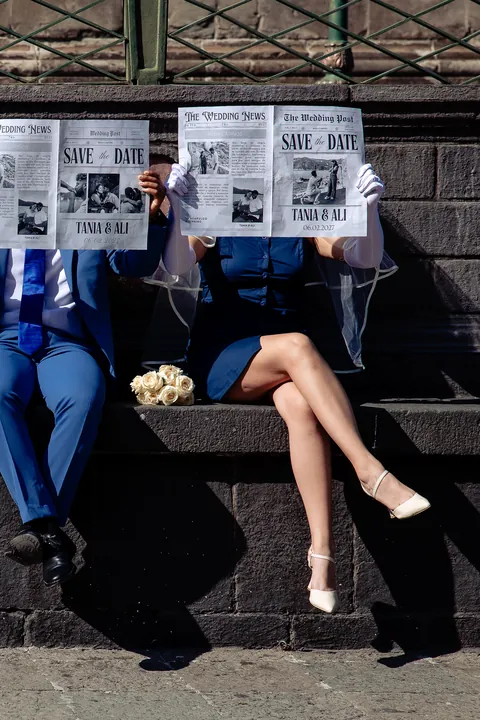
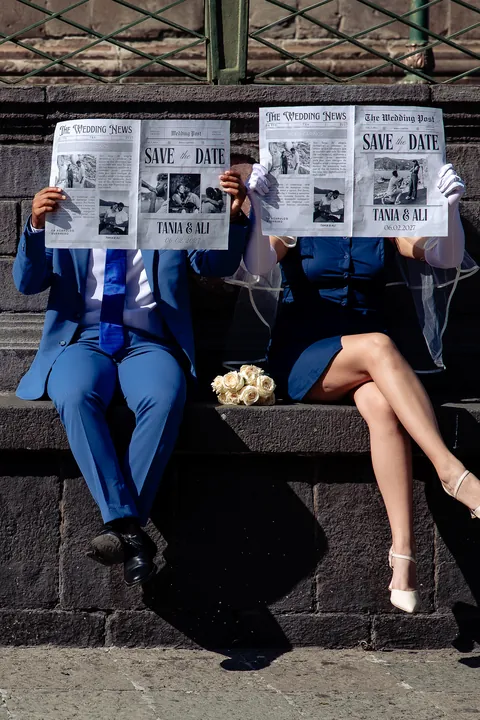
13 nov: fotos de periódicos centradas, franja aérea centrada en celular, link capilla por cid, & del pie y de la firma, días sin cero

diff --git a/index.html b/index.html
@@ -2319,6 +2319,16 @@ footer{padding-top:calc(var(--fade) + 10px)!important}
 }
 /* & del pie de página completo */
 .footer-names .amp{font-family:var(--display)!important;font-style:italic!important;padding:0 .12em}
+
+/* ============ 13 nov ============ */
+/* & del pie: mismo tono y tamaño que los nombres */
+.footer-names .amp{color:#F8F5EC!important;font-size:.6em!important;vertical-align:.12em;padding:0 .2em!important}
+/* & de la firma del verso completa */
+.verse-sig .amp{font-family:var(--display);font-style:italic;font-size:.72em;padding:0 .15em;vertical-align:.08em}
+/* contador: que quepa "Segundos" */
+@media (max-width:520px){.cd-lbl{font-size:10.5px!important;letter-spacing:.02em!important}}
+/* franja aérea en celular: pareja al centro */
+@media (max-width:700px){.photo-band .pb-img[style*="banda-1.webp"]{background-image:url(fotos/banda-1m.webp)!important;background-position:50% 50%!important}}
 </style>
 </head>
 <body>
@@ -2445,7 +2455,7 @@ footer{padding-top:calc(var(--fade) + 10px)!important}
         </svg>
         <span class="verse-quote">&ldquo;</span>
         <p class="verse-text">Después de un hermoso camino juntos, hemos decidido unir nuestras vidas ante Dios, frente al mar y rodeados de nuestros seres queridos.<br><br>Nos casamos, y queremos compartir este día tan especial con ustedes.</p>
-        <div class="verse-sig">Tania &amp; Ali</div>
+        <div class="verse-sig">Tania <span class="amp">&amp;</span> Ali</div>
         <figure class="dbl-exp"><img src="fotos/caminando.webp?v=2" alt="Tania y Ali caminando de la mano" decoding="async" loading="lazy"></figure>
       </div>
     </div>
@@ -2483,7 +2493,7 @@ footer{padding-top:calc(var(--fade) + 10px)!important}
       <h2>Contamos <em>los</em> días</h2>
       <div class="countdown-sub">hasta el gran momento</div>
       <div class="countdown-grid" id="cd">
-        <div class="cd-block"><div class="cd-num" id="cd-d">000</div><div class="cd-lbl">Días</div></div>
+        <div class="cd-block"><div class="cd-num" id="cd-d">00</div><div class="cd-lbl">Días</div></div>
         <div class="cd-block"><div class="cd-num" id="cd-h">00</div><div class="cd-lbl">Horas</div></div>
         <div class="cd-block"><div class="cd-num" id="cd-m">00</div><div class="cd-lbl">Minutos</div></div>
         <div class="cd-block"><div class="cd-num" id="cd-s">00</div><div class="cd-lbl">Segundos</div></div>
@@ -2534,7 +2544,7 @@ footer{padding-top:calc(var(--fade) + 10px)!important}
           <div class="loc-name">Capilla María Estrella del Mar</div>
           <div class="loc-time">1:00 pm</div>
           <div class="loc-addr">Acapulco, Guerrero</div>
-          <a class="loc-btn" href="https://www.google.com/maps/place/Capilla+Maria+Estrella+del+Mar/@16.90174,-99.9726878,17z/data=!4m6!3m5!1s0x85caf99e5c01a265:0x326f6222d54b61c8!8m2!3d16.90174!4d-99.9726878" target="_blank" rel="noopener">Abrir en Google Maps</a>
+          <a class="loc-btn" href="https://maps.google.com/?cid=3634231326058176968" target="_blank" rel="noopener">Abrir en Google Maps</a>
         </article>
         <article class="loc-card" data-tilt>
           <span class="washi washi--l"></span>
@@ -2686,10 +2696,10 @@ footer{padding-top:calc(var(--fade) + 10px)!important}
         <div class="c3d-card"><img src="fotos/c05-t.webp?v=3" data-full="fotos/c05.webp?v=3" alt="Tania y Ali" decoding="async" draggable="false"></div>
         <div class="c3d-card"><img src="fotos/c06-t.webp" data-full="fotos/c06.webp" alt="Tania y Ali" decoding="async" draggable="false"></div>
         <div class="c3d-card"><img src="fotos/c07-t.webp" data-full="fotos/c07.webp" alt="Tania y Ali" decoding="async" draggable="false"></div>
-        <div class="c3d-card"><img src="fotos/c08-t.webp?v=3" data-full="fotos/c08.webp?v=3" alt="Tania y Ali" decoding="async" draggable="false"></div>
+        <div class="c3d-card"><img src="fotos/c08-t.webp?v=4" data-full="fotos/c08.webp?v=4" alt="Tania y Ali" decoding="async" draggable="false"></div>
         <div class="c3d-card"><img src="fotos/c09-t.webp?v=2" data-full="fotos/c09.webp?v=2" alt="Tania y Ali" decoding="async" draggable="false"></div>
         <div class="c3d-card"><img src="fotos/c10-t.webp?v=3" data-full="fotos/c10.webp?v=3" alt="Tania y Ali" decoding="async" draggable="false"></div>
-        <div class="c3d-card"><img src="fotos/c11-t.webp" data-full="fotos/c11.webp" alt="Tania y Ali" decoding="async" draggable="false"></div>
+        <div class="c3d-card"><img src="fotos/c11-t.webp?v=4" data-full="fotos/c11.webp?v=4" alt="Tania y Ali" decoding="async" draggable="false"></div>
         <div class="c3d-card"><img src="fotos/c12-t.webp?v=3" data-full="fotos/c12.webp?v=3" alt="Tania y Ali" decoding="async" draggable="false"></div>
       </div>
     </div>
@@ -3417,7 +3427,7 @@ function flipOn(el,newVal){
 }
 function tick(){
   const d = Math.max(0, countTarget - Date.now());
-  const dd = String(Math.floor(d/86400000)).padStart(3,'0');
+  const dd = String(Math.floor(d/86400000));
   const hh = String(Math.floor(d%86400000/3600000)).padStart(2,'0');
   const mm = String(Math.floor(d%3600000/60000)).padStart(2,'0');
   const ss = String(Math.floor(d%60000/1000)).padStart(2,'0');
